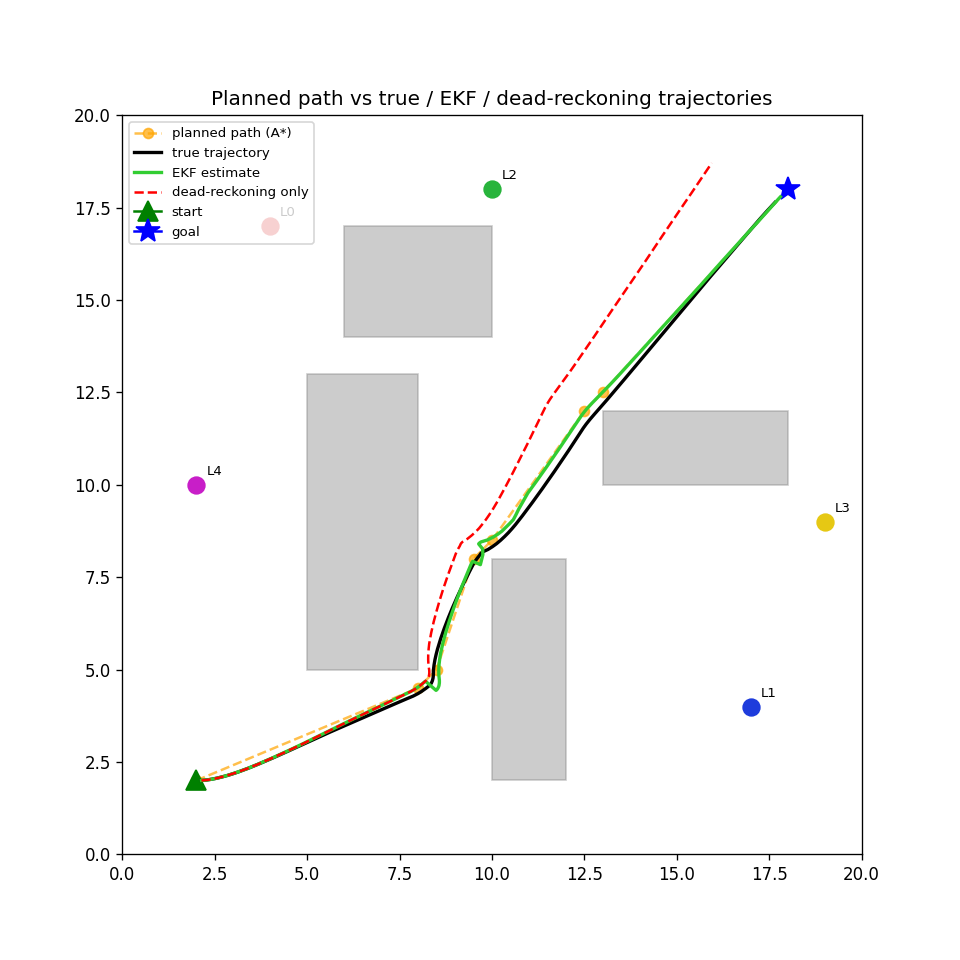
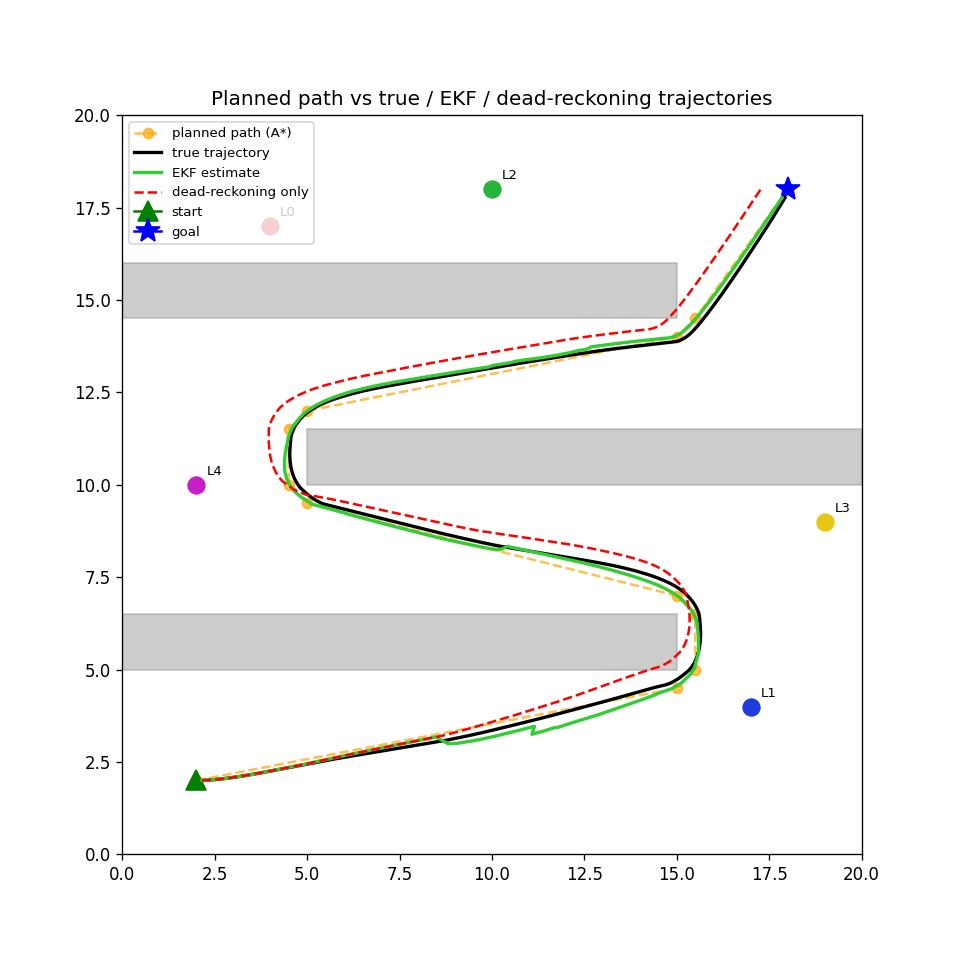
Replace scattered-box obstacles with a serpentine maze (3 alternating-gap walls)
The old layout only forced one gentle detour, so the robot barely turned.
The new layout forces the planned path to zigzag across the full width of
the world three times, giving a much more visible navigation challenge.

Changed region(s): [[0.125, 0.1875, 0.9062, 0.8125]]

diff --git a/python/environment.py b/python/environment.py
@@ -21,10 +21,9 @@ class Obstacle:
 
 
 OBSTACLES = [
-    Obstacle(x=5.0, y=5.0, width=3.0, height=8.0),
-    Obstacle(x=10.0, y=2.0, width=2.0, height=6.0),
-    Obstacle(x=13.0, y=10.0, width=5.0, height=2.0),
-    Obstacle(x=6.0, y=14.0, width=4.0, height=3.0),
+    Obstacle(x=0.0, y=5.0, width=15.0, height=1.5),
+    Obstacle(x=5.0, y=10.0, width=15.0, height=1.5),
+    Obstacle(x=0.0, y=14.5, width=15.0, height=1.5),
 ]
 
 
